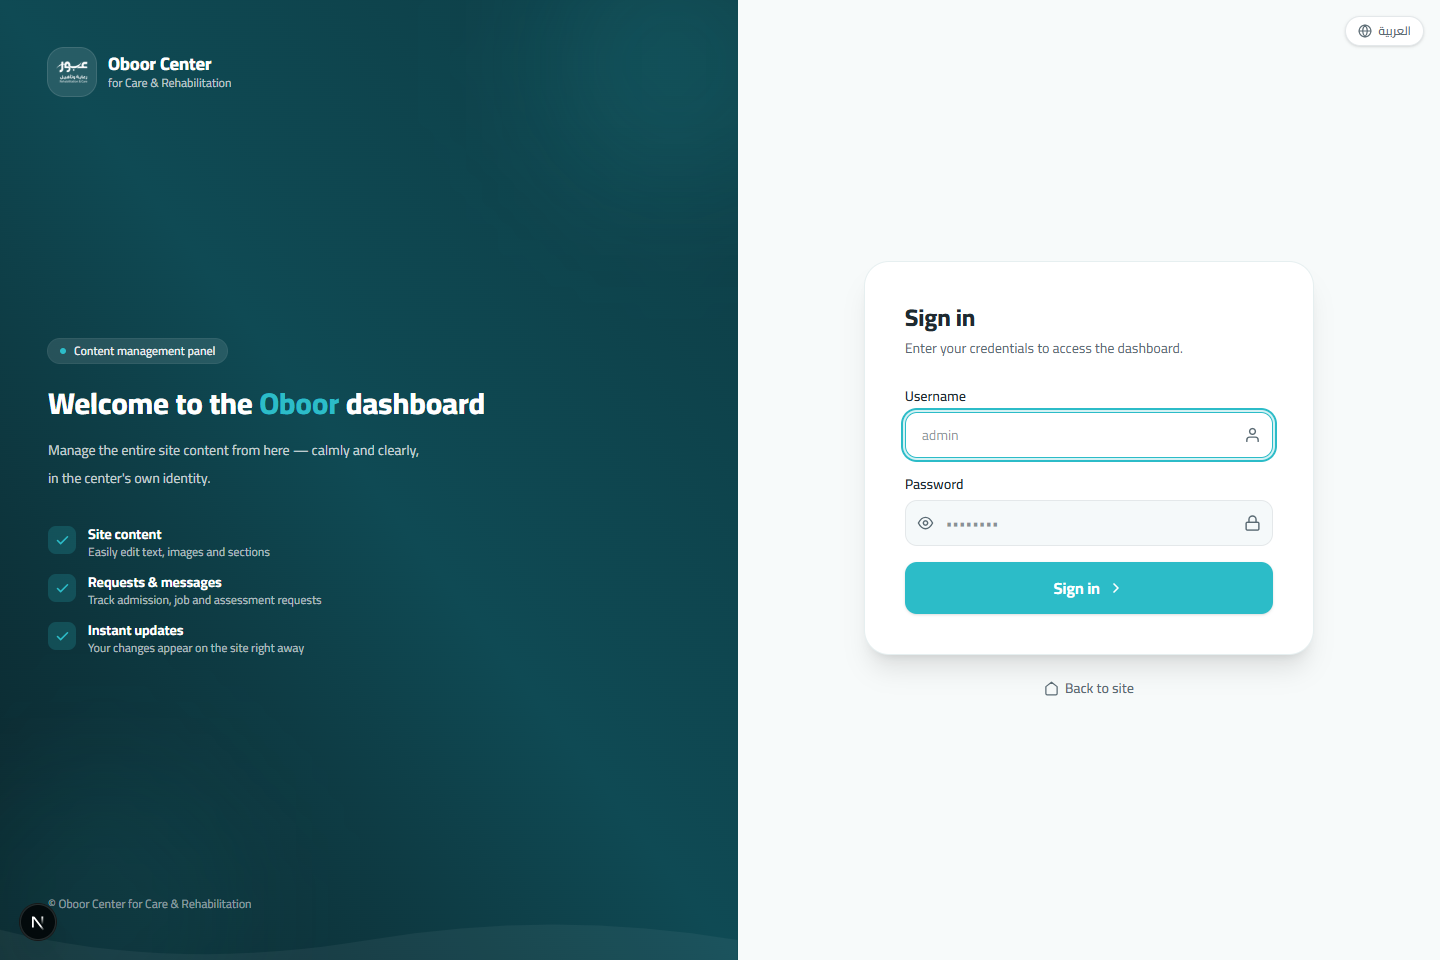
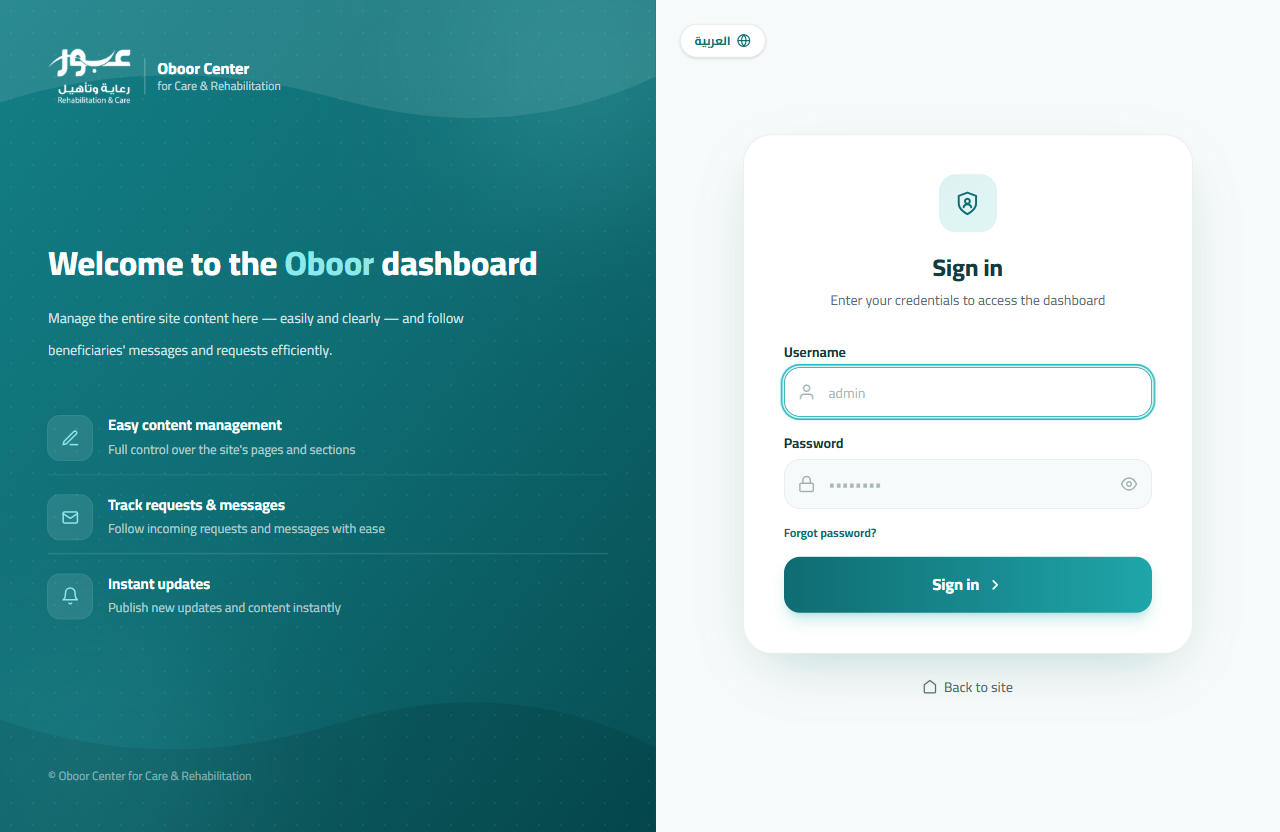
guide: add My Account section + forgot-password step; refresh login & account screenshots

diff --git a/src/lib/cms/guideContent.ts b/src/lib/cms/guideContent.ts
@@ -41,6 +41,7 @@ export const GUIDE: GuidePart[] = [
         steps: [
           cms("login", "افتح رابط لوحة التحكّم المنتهي بـ /cms. إن لم تكن مسجّلاً ستظهر شاشة الدخول.", "Open the control-panel link ending with /cms. If you're not signed in, the sign-in screen appears."),
           p("اكتب اسم المستخدم وكلمة المرور ثم اضغط «تسجيل الدخول».", "Enter your username and password, then click “Sign in”."),
+          p("لو نسيت كلمة المرور، اضغط «نسيت كلمة المرور؟» أسفل الحقول ليصلك رابط إعادة تعيين على بريدك المسجّل (تفاصيل أكثر في قسم «حسابي»).", "If you forget your password, click “Forgot password?” below the fields to receive a reset link on your registered email (more in the “My Account” section)."),
           p("زر الكرة الأرضية أعلى الشاشة يبدّل لغة اللوحة نفسها بين العربية والإنجليزية في أي وقت.", "The globe button at the top switches the panel's own language between Arabic and English at any time."),
           p("عند الانتهاء اضغط زر الخروج (السهم) أعلى الشريط لتسجيل الخروج بأمان — خاصة على جهاز مشترك.", "When done, click the log-out (arrow) button in the top bar to sign out safely — especially on a shared device."),
         ],
@@ -67,6 +68,27 @@ export const GUIDE: GuidePart[] = [
           p("خانة البحث أعلى القائمة تصفّي الأقسام بالاسم — اكتب جزءاً من الاسم لتصل بسرعة.", "The search box at the top of the sidebar filters areas by name — type part of a name to jump quickly."),
           p("زر الكرة الأرضية أعلى الشريط يبدّل لغة اللوحة. هذا يغيّر لغة الأزرار والقوائم فقط — لا يؤثّر على محتوى الموقع.", "The globe button in the top bar switches the panel language. This changes only buttons and menus — it does not affect the site's content."),
           p("زر «رجوع» يعيدك للصفحة السابقة، وشعار «عبور» يعيدك للوحة الرئيسية.", "The “Back” button returns to the previous page, and the Oboor logo returns to the main dashboard."),
+        ],
+      },
+      {
+        id: "account",
+        title_ar: "حسابي: تغيير البريد وكلمة المرور",
+        title_en: "My Account: Email & Password",
+        intro_ar: "من صفحة «حسابي» تدير بيانات دخولك بنفسك — تغيّر بريدك الإلكتروني أو كلمة مرورك في أي وقت وأنت مسجّل الدخول.",
+        intro_en: "From the “My Account” page you manage your own sign-in details — change your email or password anytime while signed in.",
+        steps: [
+          cms("account", "افتح «حسابي» من أسفل القائمة الجانبية، أو اضغط على اسمك/صورتك أعلى الشريط.", "Open “My Account” from the bottom of the sidebar, or click your name/avatar in the top bar."),
+          p("اسم المستخدم للعرض فقط ولا يمكن تعديله (لأسباب أمنية). أمّا البريد الإلكتروني فقابل للتعديل — بعد تغييره اضغط «حفظ البريد الإلكتروني».", "The username is read-only (for security). The email, however, is editable — after changing it, click “Save email”."),
+          p("لتغيير كلمة المرور: اكتب كلمة المرور الحالية، ثم الجديدة، ثم أكّدها (٨ أحرف على الأقل)، واضغط «تحديث كلمة المرور».", "To change your password: enter your current password, then the new one, then confirm it (at least 8 characters), and click “Update password”."),
+          p("زر العين بجانب كل حقل يُظهر/يُخفي كلمة المرور للتأكّد منها قبل الحفظ.", "The eye button next to each field shows/hides the password so you can verify it before saving."),
+        ],
+        faq: [
+          faq("نسيت كلمة المرور تمامًا وأُقفلت خارج اللوحة؟", "Forgot your password entirely and locked out?",
+              "من شاشة الدخول اضغط «نسيت كلمة المرور؟» ليصلك رابط إعادة تعيين على بريدك المسجّل. (يتطلب تفعيل خدمة البريد على الخادم؛ إن لم تصلك الرسالة تواصل مع الفريق التقني لإعادة التعيين.)",
+              "On the sign-in screen click “Forgot password?” to receive a reset link on your registered email. (Requires the email service to be enabled on the server; if it doesn't arrive, contact the technical team to reset it.)"),
+          faq("هل تغيير كلمة المرور يسجّل خروجي؟", "Does changing my password sign me out?",
+              "لا، تبقى جلستك الحالية مفتوحة. لكن أي جهاز آخر مسجّل بنفس الحساب سيحتاج تسجيل دخول جديد بكلمة المرور الجديدة.",
+              "No, your current session stays open. But any other device signed in with the same account will need to sign in again with the new password."),
         ],
       },
     ],